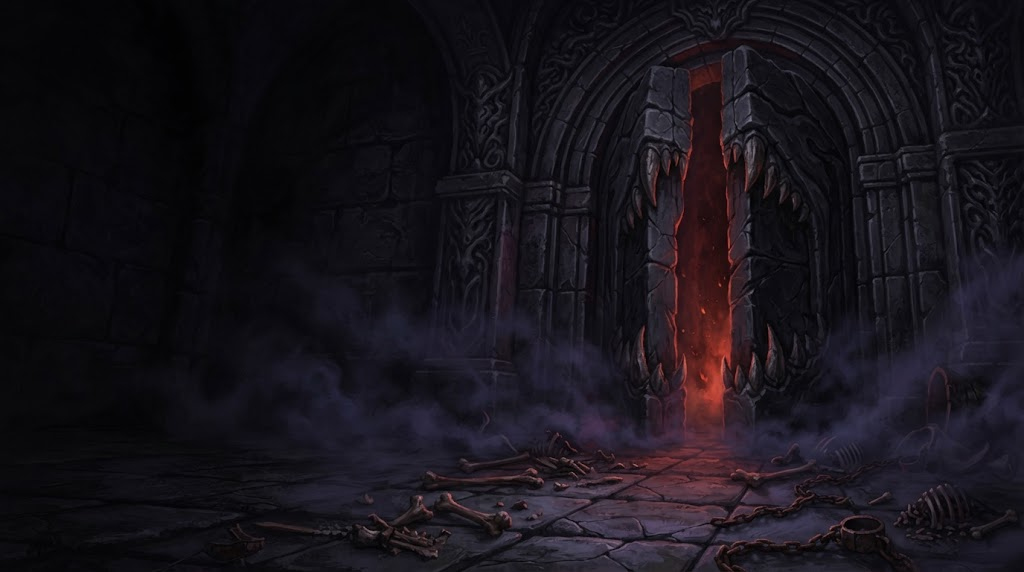
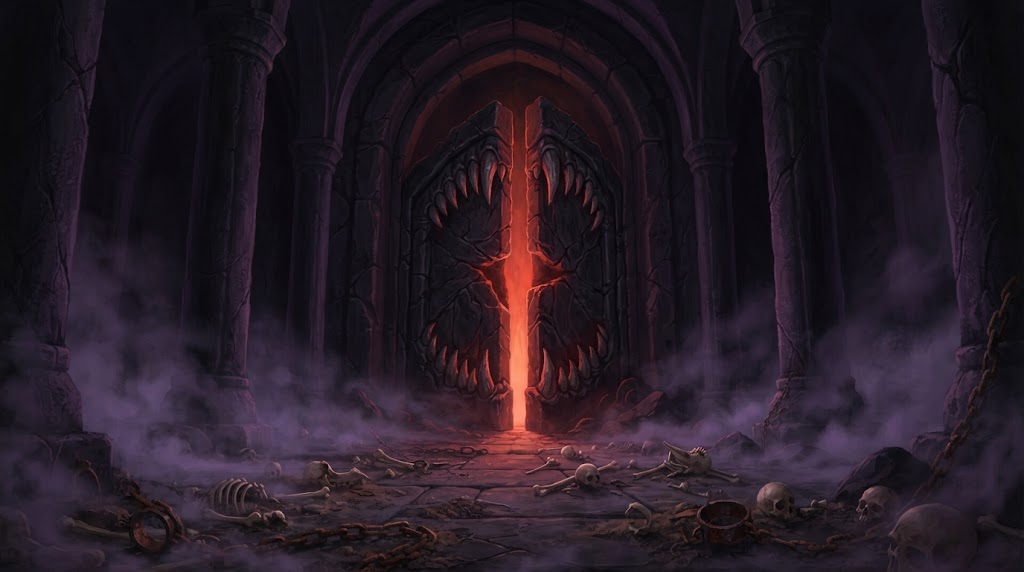
v702 : bandeaux peints des chapitres 1 à 10
Claude-Session: https://claude.ai/code/session_01G3jW2e2fkjyWdrMoKXNbtm

diff --git a/js/screens/descent.js b/js/screens/descent.js
@@ -47,7 +47,7 @@ export default function descent(app, root) {
   /* v469 : chaque gain dans sa pastille, espacées (avant : icônes et chiffres collés) */
   const rewardLine = (r) => `<span class="rw-line">${[r.shards && `<span class="rw-i">${icon('crystal')}+${fmt(r.shards)}</span>`, r.ash && `<span class="rw-i">${icon('ash')}+${fmt(r.ash)}</span>`, ...Object.keys(r.chests || {}).map((c) => `<span class="rw-i" style="color:${CHESTS[c].color}">${icon('p:chest')}${esc(CHESTS[c].name)}</span>`), r.braises && `<span class="rw-i rw-br">${BRAISE_IC}+${r.braises}</span>`].filter(Boolean).join('')}</span>`;
   /* v700 : bandeau peint de chaque chapitre (images Gemini, assets/chapitres/chap-N.webp) : ajouter le numéro ici à l'arrivée de l'image */
-  const CHAP_ART = new Set([1]);
+  const CHAP_ART = new Set([1, 2, 3, 4, 5, 6, 7, 8, 9, 10]);
   function chapterHTML() {
     const d = g.descent(), best = d.best || 0, start = startFloor(), ch = chapterOf(start), done = chapDone(ch), bk = bossOf(ch * CHAPTER), B = BOSSES[bk];
     const floors = Array.from({ length: CHAPTER }, (_, i) => start + i);

diff --git a/sw.js b/sw.js
@@ -1,7 +1,7 @@
 // Service worker d'ABYSSAL : l'application et les données sont mises en cache
 // pour fonctionner hors ligne après une première visite. Incrémenter VERSION à
 // chaque publication pour que les joueurs reçoivent la mise à jour.
-const VERSION = 'abyssal-v701';
+const VERSION = 'abyssal-v702';
 const ART_CACHE = 'abyssal-media';  // images du jeu : gardées entre les versions
 const FONT_CACHE = 'abyssal-fonts';
 const CORE = [

diff --git a/js/config.js b/js/config.js
@@ -1,7 +1,7 @@
 // Configuration centrale du jeu : raretés, tables de tirage, boosters,
 // économie, variantes, progression. Toute la balance se règle ici.
 
-export const VERSION = 'v701'; // même numéro que sw.js : affiché dans Réglages > À propos
+export const VERSION = 'v702'; // même numéro que sw.js : affiché dans Réglages > À propos
 
 export const RARITIES = [
   { key: 'C',  name: 'Commune',     short: 'C',  color: '#A3ADBD' },

diff --git a/CLAUDE.md b/CLAUDE.md
@@ -33,7 +33,7 @@ Ce texte reprend tout ce qu'il faut savoir du projet. Ce fichier est lu automati
 - SQL : `supabase/12-serveur-de-partie.sql` (table `parties`, fonctions `partie_*` réservées à `service_role`), puis **`supabase/13-verrouillage.sql` seulement quand À propos dit « Progression gardée par le serveur »** (plus d'écriture directe des sauvegardes, profils, fiches d'ami et Épreuves ; le joueur garde le choix de son pseudo).
 
 ## 2. Routine de livraison
-1. Version : **ligne 4** de `js/config.js` **et** de `sw.js`, toujours le même numéro (`sed -i "4s/vX/vY/" js/config.js sw.js`). Actuellement **v701**.
+1. Version : **ligne 4** de `js/config.js` **et** de `sw.js`, toujours le même numéro (`sed -i "4s/vX/vY/" js/config.js sw.js`). Actuellement **v702**.
 2. Tests : `node --test tests/*.test.mjs` (367 tests, dont `tests/syntaxe.test.mjs` qui passe `node --check` sur chaque fichier de `js/` : les écrans ne sont importés par aucun autre test), `node tools/validate.mjs`. Si le combat ou l'équilibre change : `node tools/fuzz.mjs 300` (étage moyen ≈ 12 à 14 en normal).
 3. Vérification dans le navigateur avec Playwright (`/opt/node-tools/node_modules/playwright/index.mjs`, Chromium déjà installé), avec un serveur local `python3 -m http.server 8092` lancé dans le dossier. Tailles iPhone SE et iPhone 13. **L'écran d'ouverture attend un toucher** (« Touche l'écran pour entrer ») : dans les scripts, cliquer au milieu de l'écran (dans la fenêtre 390×664) avant tout le reste.
 4. Commit, push, réponse en français.
@@ -114,6 +114,7 @@ Ce texte reprend tout ce qu'il faut savoir du projet. Ce fichier est lu automati
 - Amis par pseudo : **fait en v500**. Versus Booster (mini-jeu à mise contre d'autres joueurs) : **fait en v513**. Duels des Sceaux en ligne : **fait en v519** ; Pacte en ligne : **fait en v523** ; Enchères en ligne et Cryptes entre amis : **faits en v525**. Ensuite : versus 1 contre 1 (Sceaux et combats façon Descente). Le propriétaire veut que le perdant **perde vraiment** une carte. Cadre conseillé si on le fait : mode « Duel à enjeu » séparé et consenti (duel normal sans perte à côté), mise de même rareté des deux côtés, favoris jamais mis en jeu, adversaires de niveau proche, accès après quelques jours et duels normaux (contre les comptes jetables et le trafic de cartes), uniquement entre joueurs présents ou amis ayant accepté (jamais sur une partie jouée par l'IA à la place d'un absent).
 
 ## 5. Décisions déjà prises
+- v702 (10 images Gemini du propriétaire) : **bandeaux des chapitres 1 à 10** (`tools/chap-art.py N image`, chapitre 5 remonté `-1` pour garder l’éclipse ; `CHAP_ART` = 1 à 10) ; nouveau chapitre 1 (porte centrée, ancienne source gardée en `store/chapitres/chap-1-avant-v702-source.jpg`). À surveiller : le chapitre 4 montre un compas et une équerre (demandés par le prompt, séparés, pas croisés). Restent les chapitres 11 à 20. Vérifié dans Chromium ; rien testé sur un vrai iPhone.
 - v701 (4 images Gemini du propriétaire) : **bandeau du chapitre 1** (`assets/chapitres/chap-1.webp`, `tools/chap-art.py 1 … 0.55`, `CHAP_ART` = [1]) ; **écran vide** (`assets/ui/vide.webp`, livre ouvert recadré, bords et noir fondus vers la transparence, `EMPTY_ART` = true ; source `store/ui/vide-source.jpg`) ; **médaillon Amis** du Sanctuaire (poignée de mains gantées, `assets/icons/amis2.webp` par `cutout-white.py`, source `store/icons/amis2-source.jpg`) ; **adversaire inconnu** (silhouette encapuchonnée, `assets/icons/inconnu.webp`, source `store/icons/inconnu-source.jpg`) pendant la recherche d’une partie en ligne (`.mp-unknown` dans `js/screens/mp-lobby.js`). Restent 19 bandeaux de chapitres (prompts `store/chapitres/prompts.md`). Vérifié dans Chromium ; rien testé sur un vrai iPhone.
 - v700 (suite du tour du 24 octobre 2026, lot C) : **bandeaux peints des 20 chapitres** prêts à recevoir les images Gemini (`CHAP_ART` dans `js/screens/descent.js`, vide pour l’instant ; image en tête de la carte du chapitre, `.dc-chap-bn` 21:9) ; outil `python3 tools/chap-art.py <N> <image> [décalage]` (recadre 21:9, 1050 × 450 → `assets/chapitres/chap-N.webp`, source `store/chapitres/chap-N-source.jpg`) puis ajouter N à `CHAP_ART` ; les 20 prompts sont dans `store/chapitres/prompts.md`. **Tuiles du Cercle** : portrait du prochain adversaire (« Prochain défi », `nextHTML` dans `js/screens/games.js`). **Sanctuaire** : ton fond de profil derrière la tuile Profil. **Écran vide illustré** prêt (`emptyHTML` et `EMPTY_ART` dans `js/ui/dom.js`, image attendue `assets/ui/vide.webp`, utilisé pour « Pas encore d’ami ») : passer `EMPTY_ART` à true à l’arrivée. **Combat** : petits textes du panneau d’actions agrandis. **Réglages → À propos** : « Restaurer mes achats » (dans l’app) et « Mon compte (mot de passe, suppression) », demandés par Apple. Textes dans les 5 langues. Vérifié dans Chromium ; rien testé sur un vrai iPhone.
 - v699 (suite du tour du 24 octobre 2026, lot B) : **Accueil** : grand bouton « Jouer » sous le logo (`playHTML` dans `js/screens/home.js`, `.hm-play` : Descendre / Continuer · chapitre N / Reprendre le chapitre N / Retourner dans l’Abysse ; pas pendant le cadeau de bienvenue), l’objectif « Commence la Descente » et « Reprends le chapitre » ne sont plus répétés dessous. **Guide de bienvenue : 4 pages** (histoire, boosters, Descente, chaque jour ; `GUIDE_V` inchangé, les anciens joueurs ne le revoient pas). **Bulles des règles des jeux** (Pacte, Cryptes, Enchères, Duels des Sceaux) montrées au début de la première partie au lieu de couvrir la liste des salles. **Équipe** : la collection n’est plus sous l’équipe (l’écran faisait 25 hauteurs d’écran) : une case vide ou « Choisir mes créatures » ouvre une fenêtre plein écran (`openPicker` dans `js/screens/army.js`, filtre par rôle, tri, « + Ajouter / ✓ Dans l’équipe », Terminé) ; `fillGrid` (`js/ui/card.js`) écoute aussi le défilement d’une fenêtre (`capture`). **Réglages → Jeu** : Combat juste après Langue, « Écouter les ambiances » replié. **Boutique** : « Probabilités » en lien discret sous chaque booster (`.shop-odds` ; elles doivent rester visibles pour Apple). **Listes « … à venir »** des 4 jeux : portraits en silhouette dans le bouton replié (`teaseFolds` dans `js/main.js`, `.gm-tease`). **Bestiaire** : chaque type replié avec son compteur (`.bs-cat`, ouverture gardée dans `st.oc`). **Pastilles des onglets du bas** : « 9+ » au-delà de 9 (`nCap`). **Petits textes relevés** (onglets du bas, niveau, offrande, étages, Fournaise ; relevé des textes de moins de 11 px). La pastille des récompenses attend aussi la fermeture d’une fenêtre. Textes dans les 5 langues. Vérifié dans Chromium (375 × 667, 390 × 844) ; rien testé sur un vrai iPhone.
